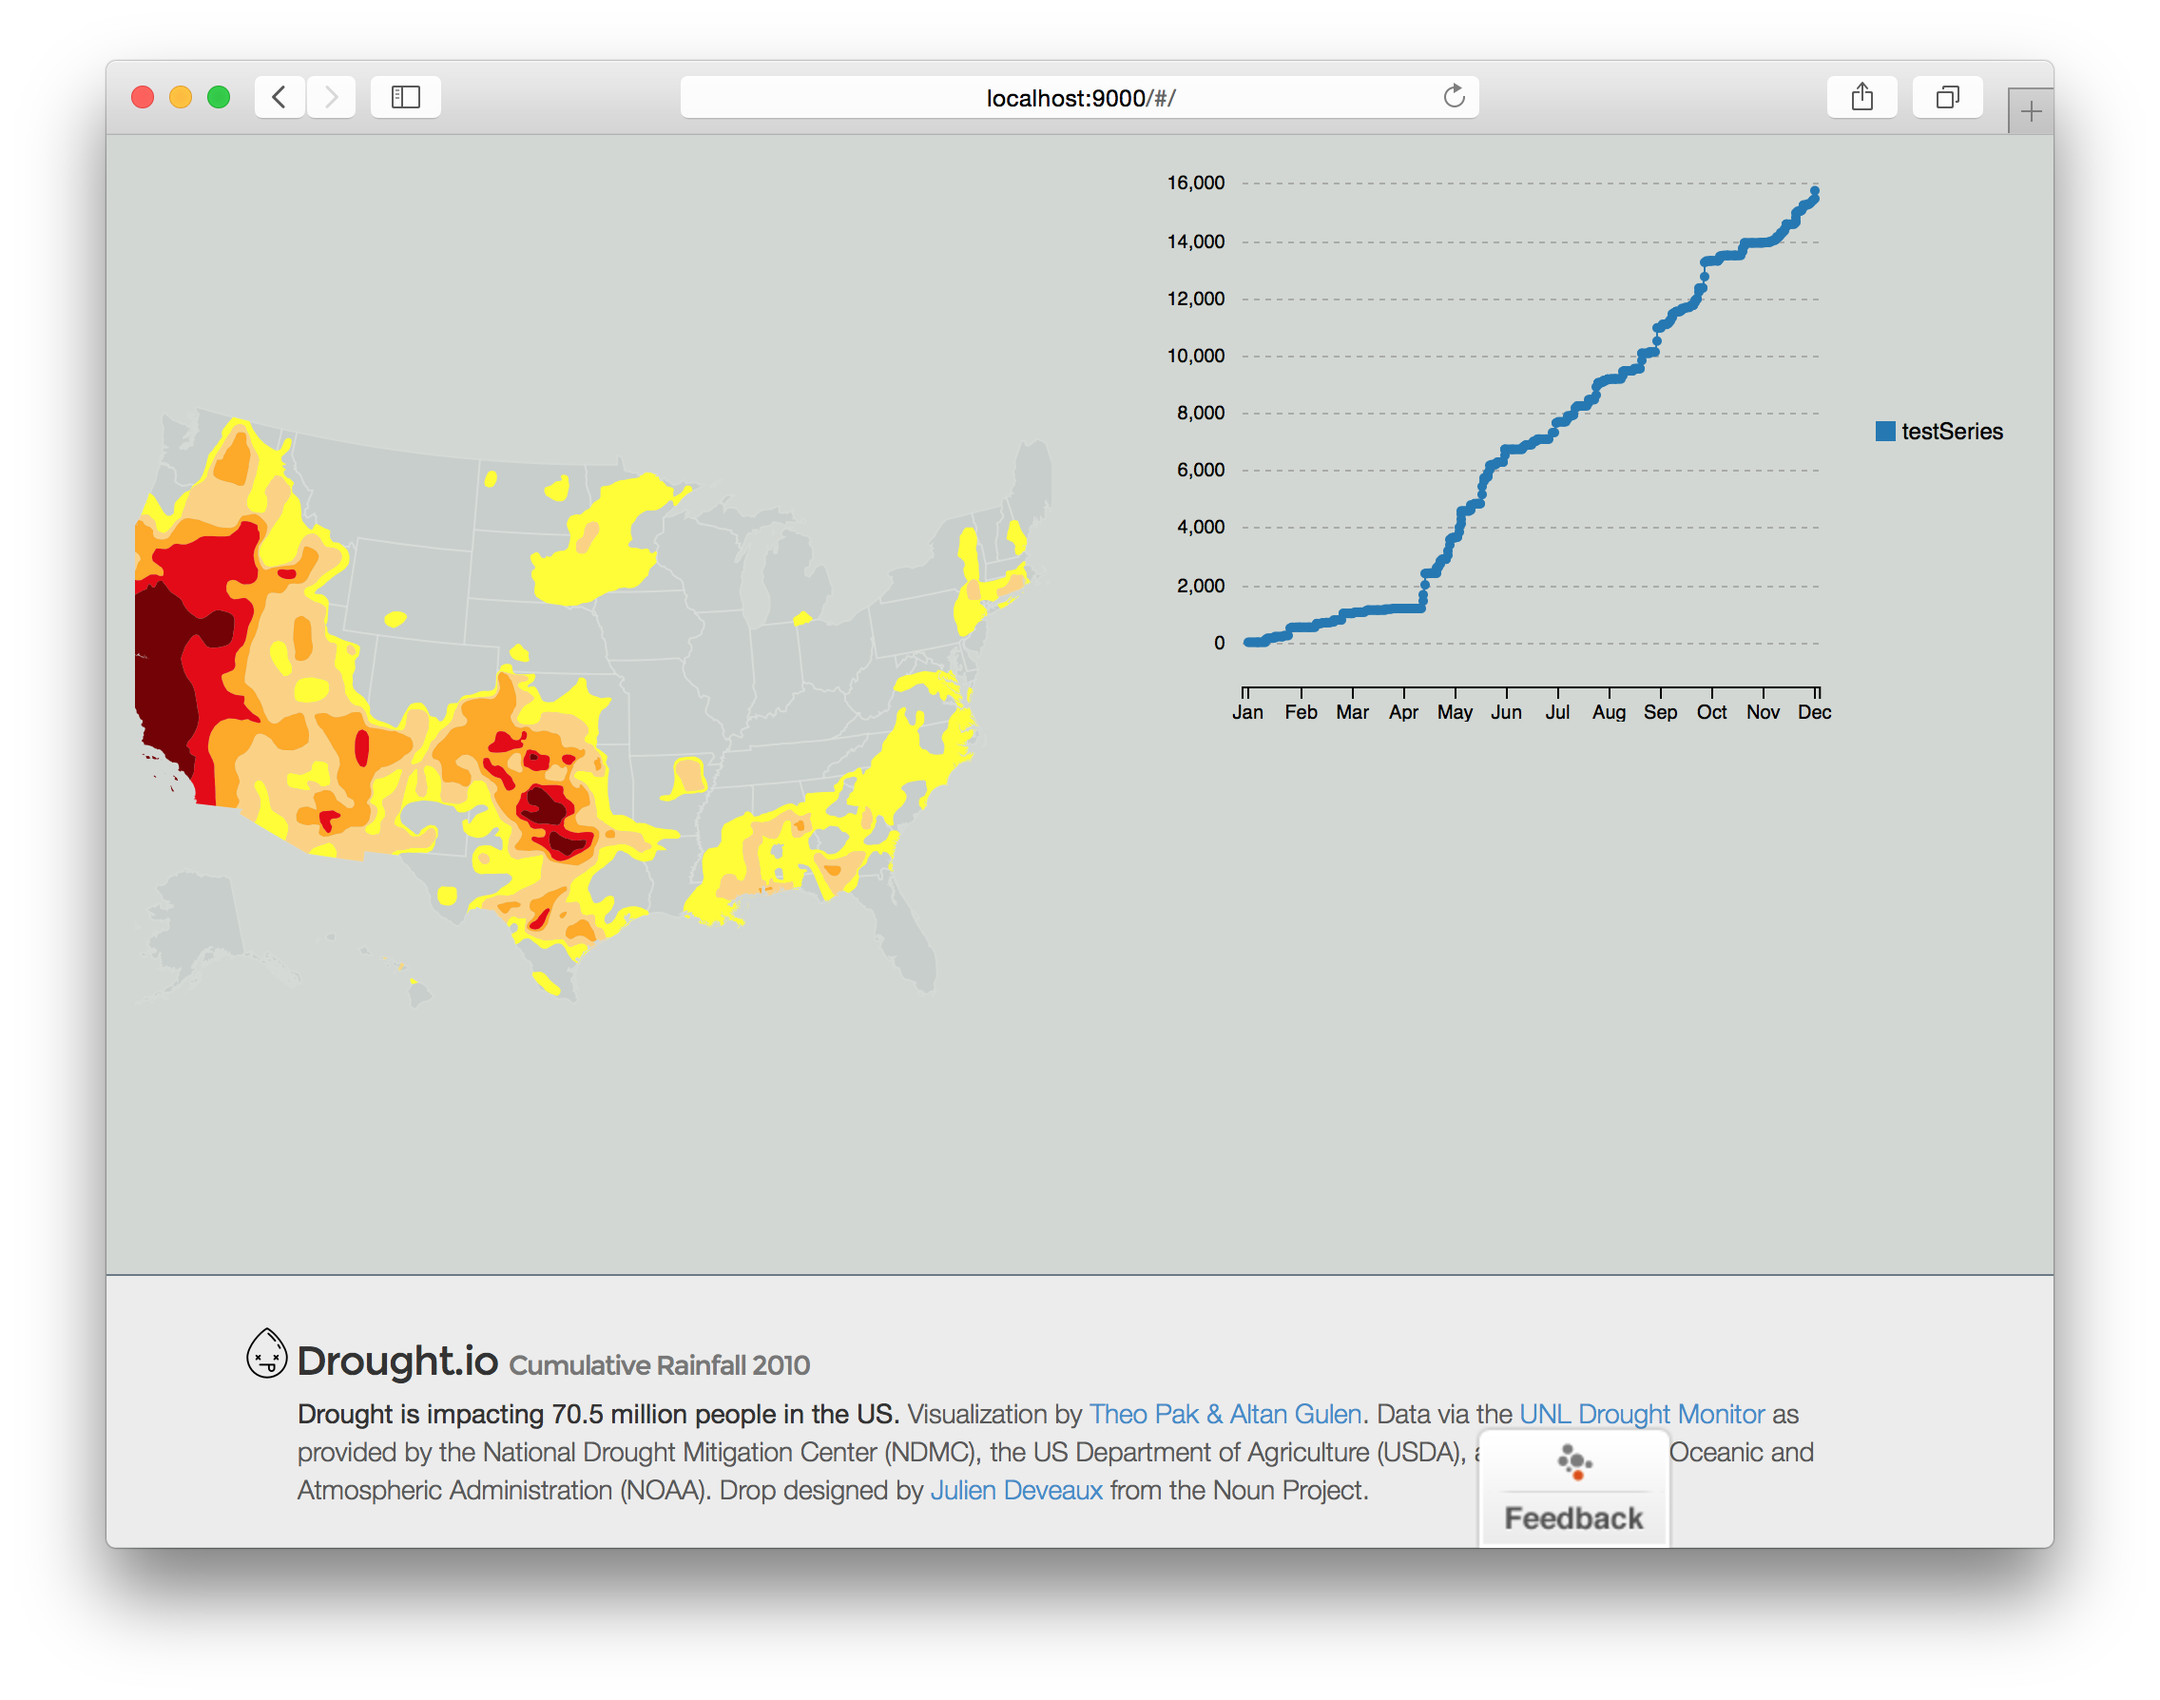
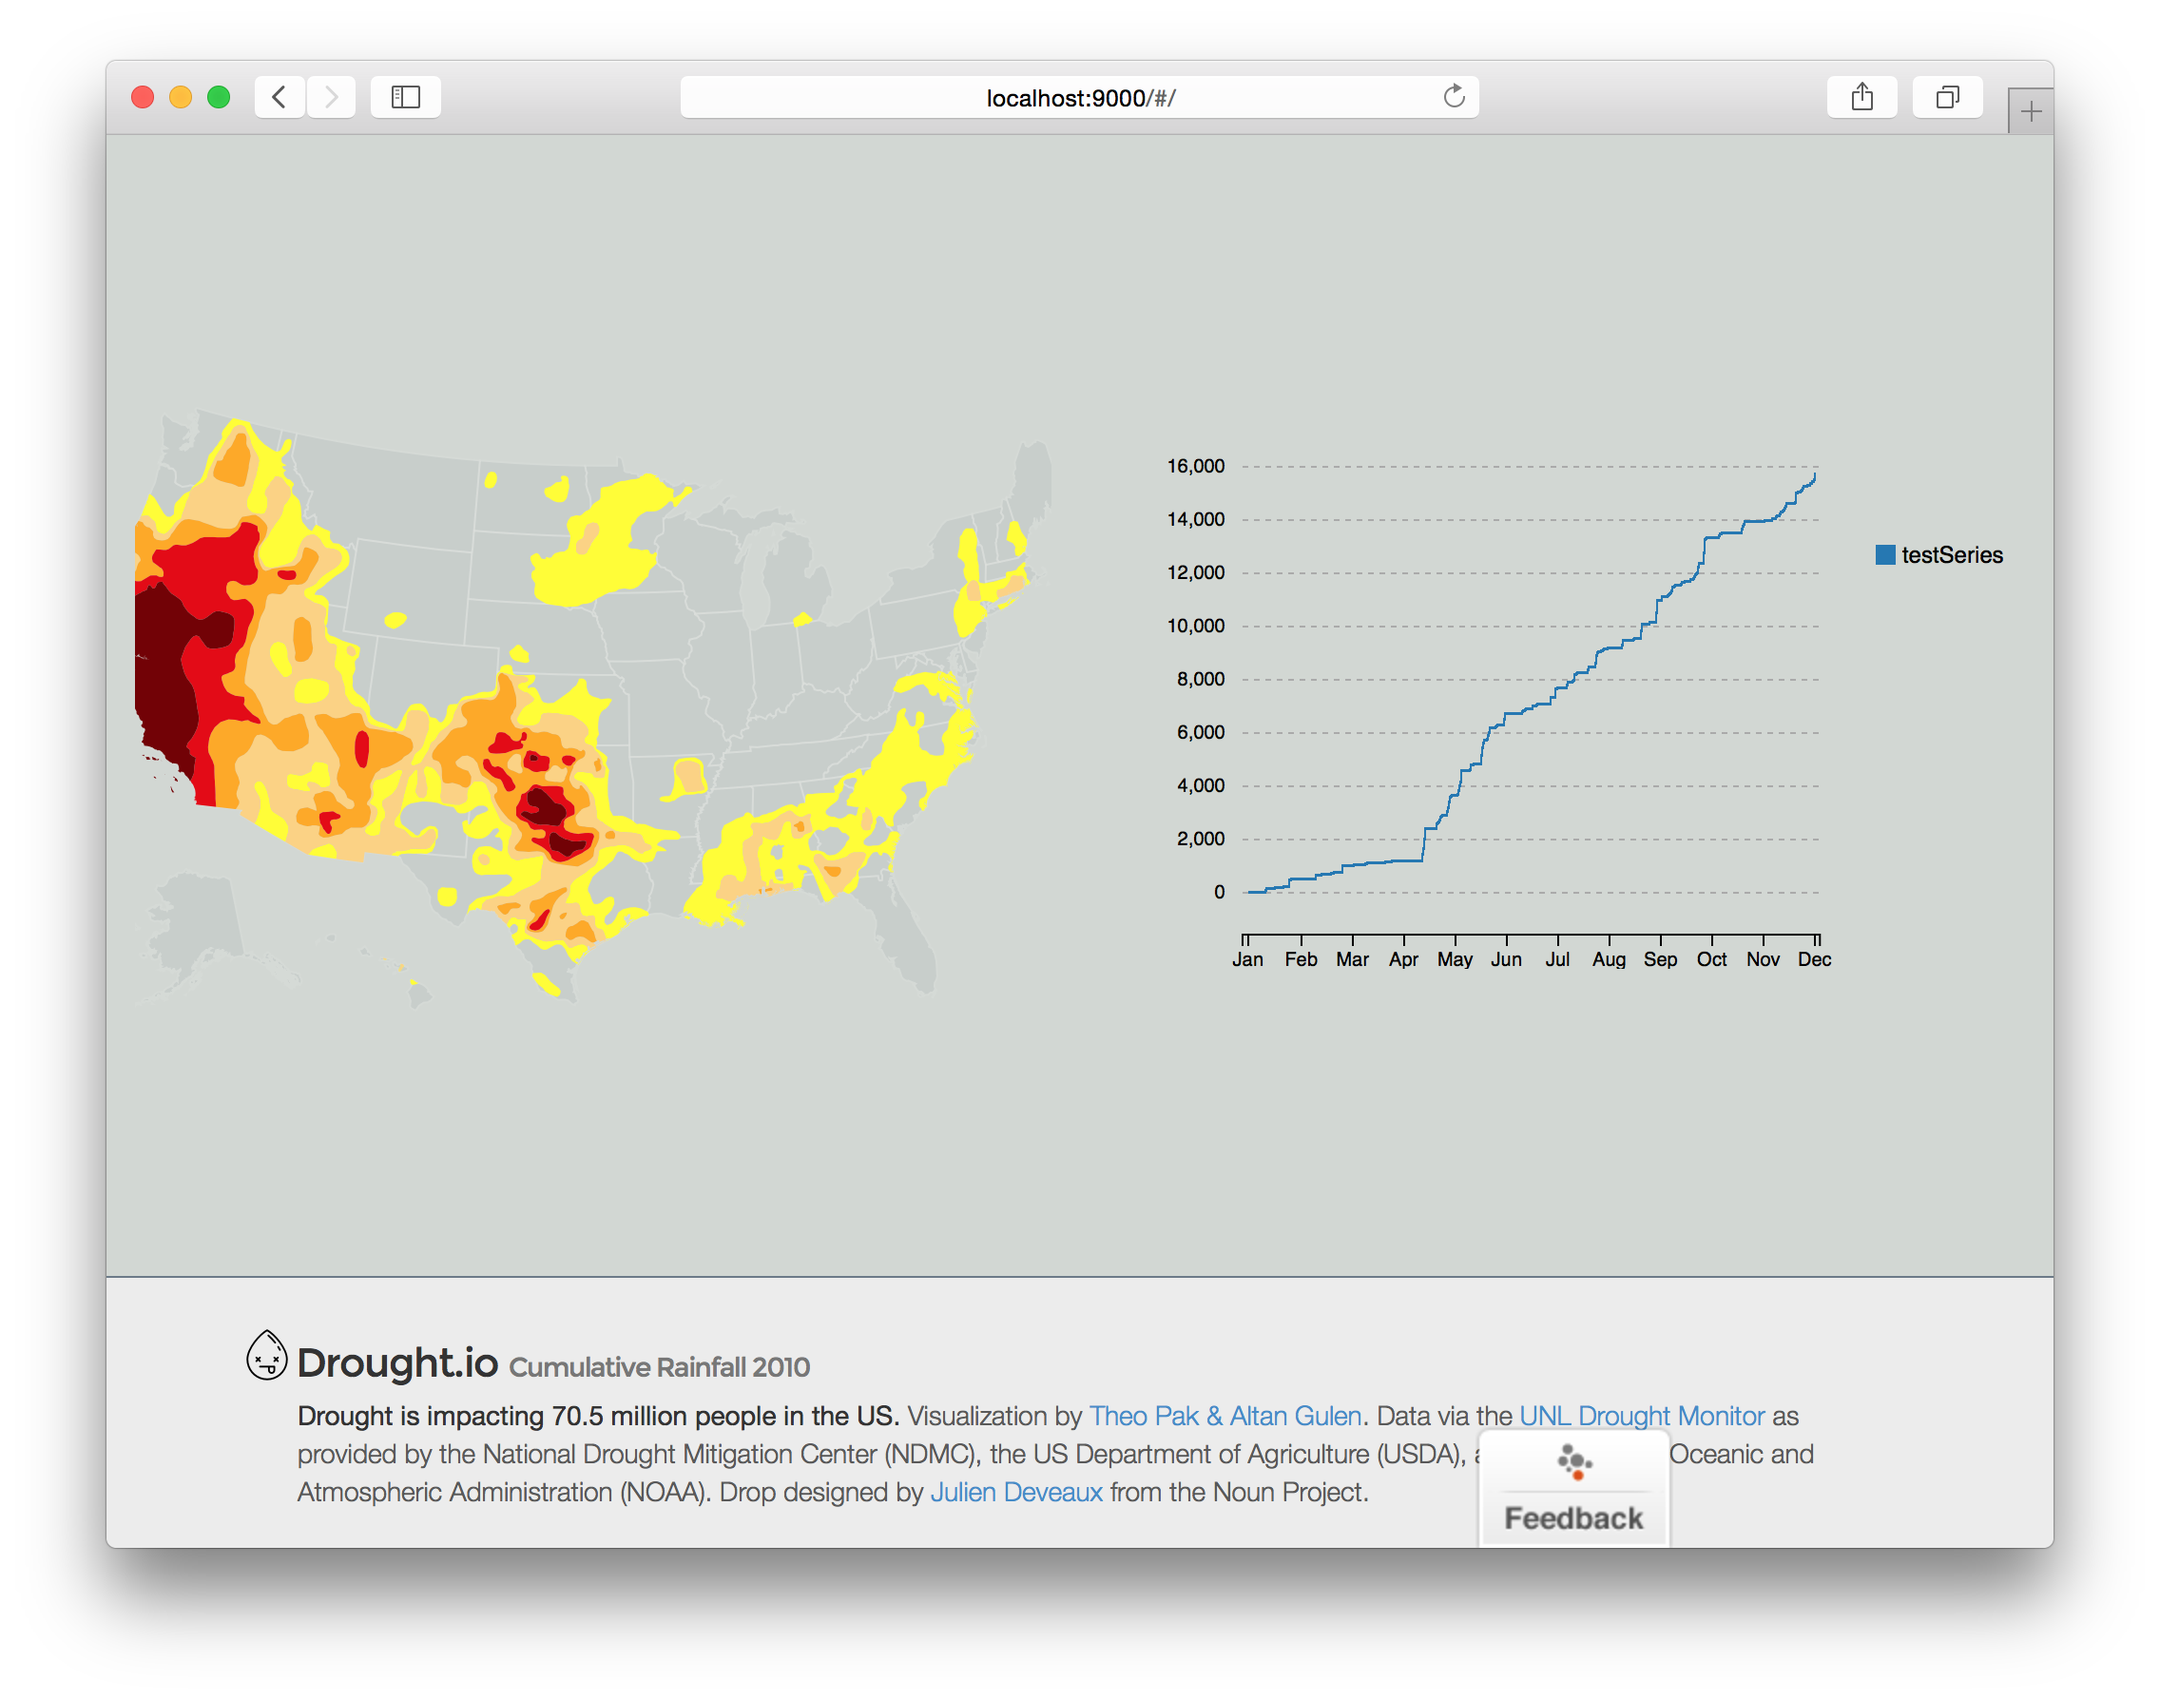
Vertically centers chart. Updates screenshot.

diff --git a/app/scripts/controllers/main.js b/app/scripts/controllers/main.js
@@ -542,6 +542,12 @@ app.controller('MainCtrl', ['$scope', '$http', 'globalService', 'RainfallSeriesP
       });
     };
 
+    // Compute height
+    var maxHeight = Math.max(window.innerHeight - $('#navbar').outerHeight(), 240);
+    var height = 300;
+    var padding = (maxHeight - height) / 2;
+    height += padding;
+
     // Setup
     $scope.selectionQueue = [];
     $scope.year = 2010;
@@ -555,12 +561,20 @@ app.controller('MainCtrl', ['$scope', '$http', 'globalService', 'RainfallSeriesP
     };
     $scope.config = {
       bindto: '#chart',
+      size: {
+        width: $('#chart').innerWidth(),
+        height: height
+      },
+      padding: {
+        top: padding
+      },
       data: {
         x: 'time',
         columns: [
           dateStrings,
           testSeries
-        ]
+        ],
+        type: 'step'
       },
       axis: {
         x: {
@@ -576,11 +590,16 @@ app.controller('MainCtrl', ['$scope', '$http', 'globalService', 'RainfallSeriesP
           tick: { format: d3.format(',') }
         }
       },
+      tooltip: {
+        format: { 
+          title: d3.time.format('%B %e, %Y'),
+          value: d3.format(',')
+        }
+      },
       grid: {
         y: { show: true }
       },
       legend: { position: 'right' },
-      type: 'area-step'
     };
 
     // C3 chart

diff --git a/app/styles/view.scss b/app/styles/view.scss
@@ -48,7 +48,6 @@ body {
 }
 
 #chart {
-  margin-bottom: 6rem;
   overflow: hidden;
   & > svg {
     max-width: 100%;
